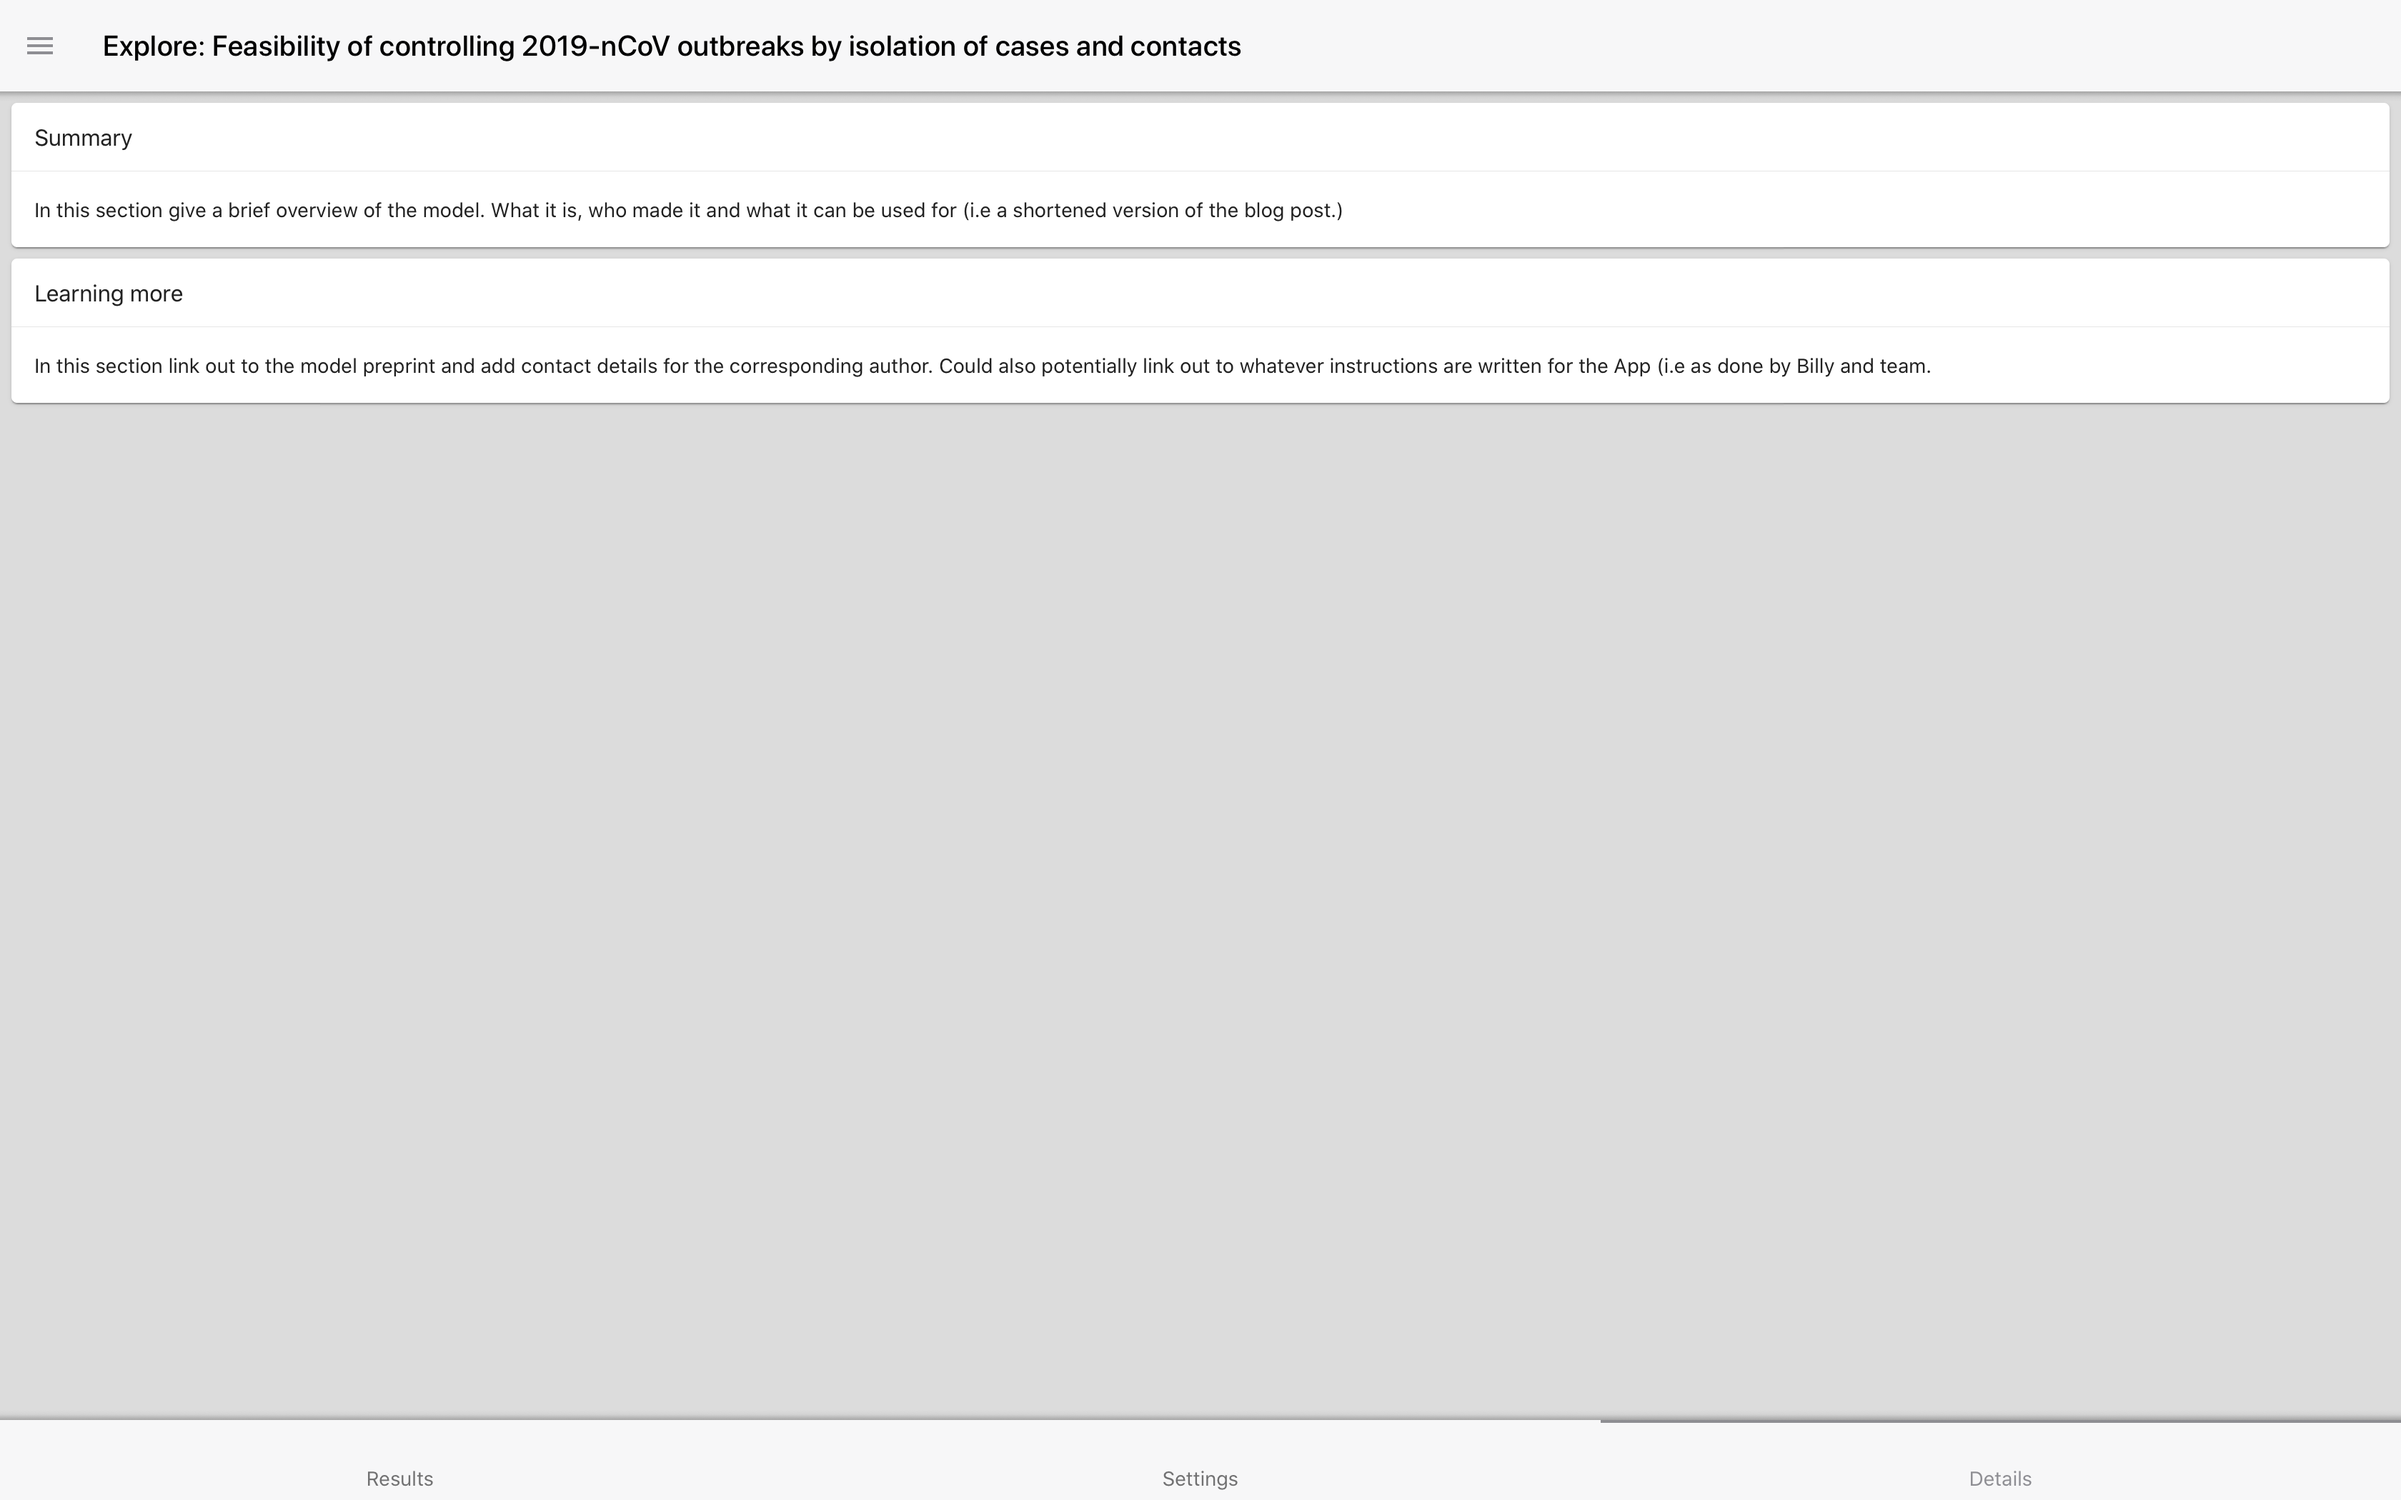
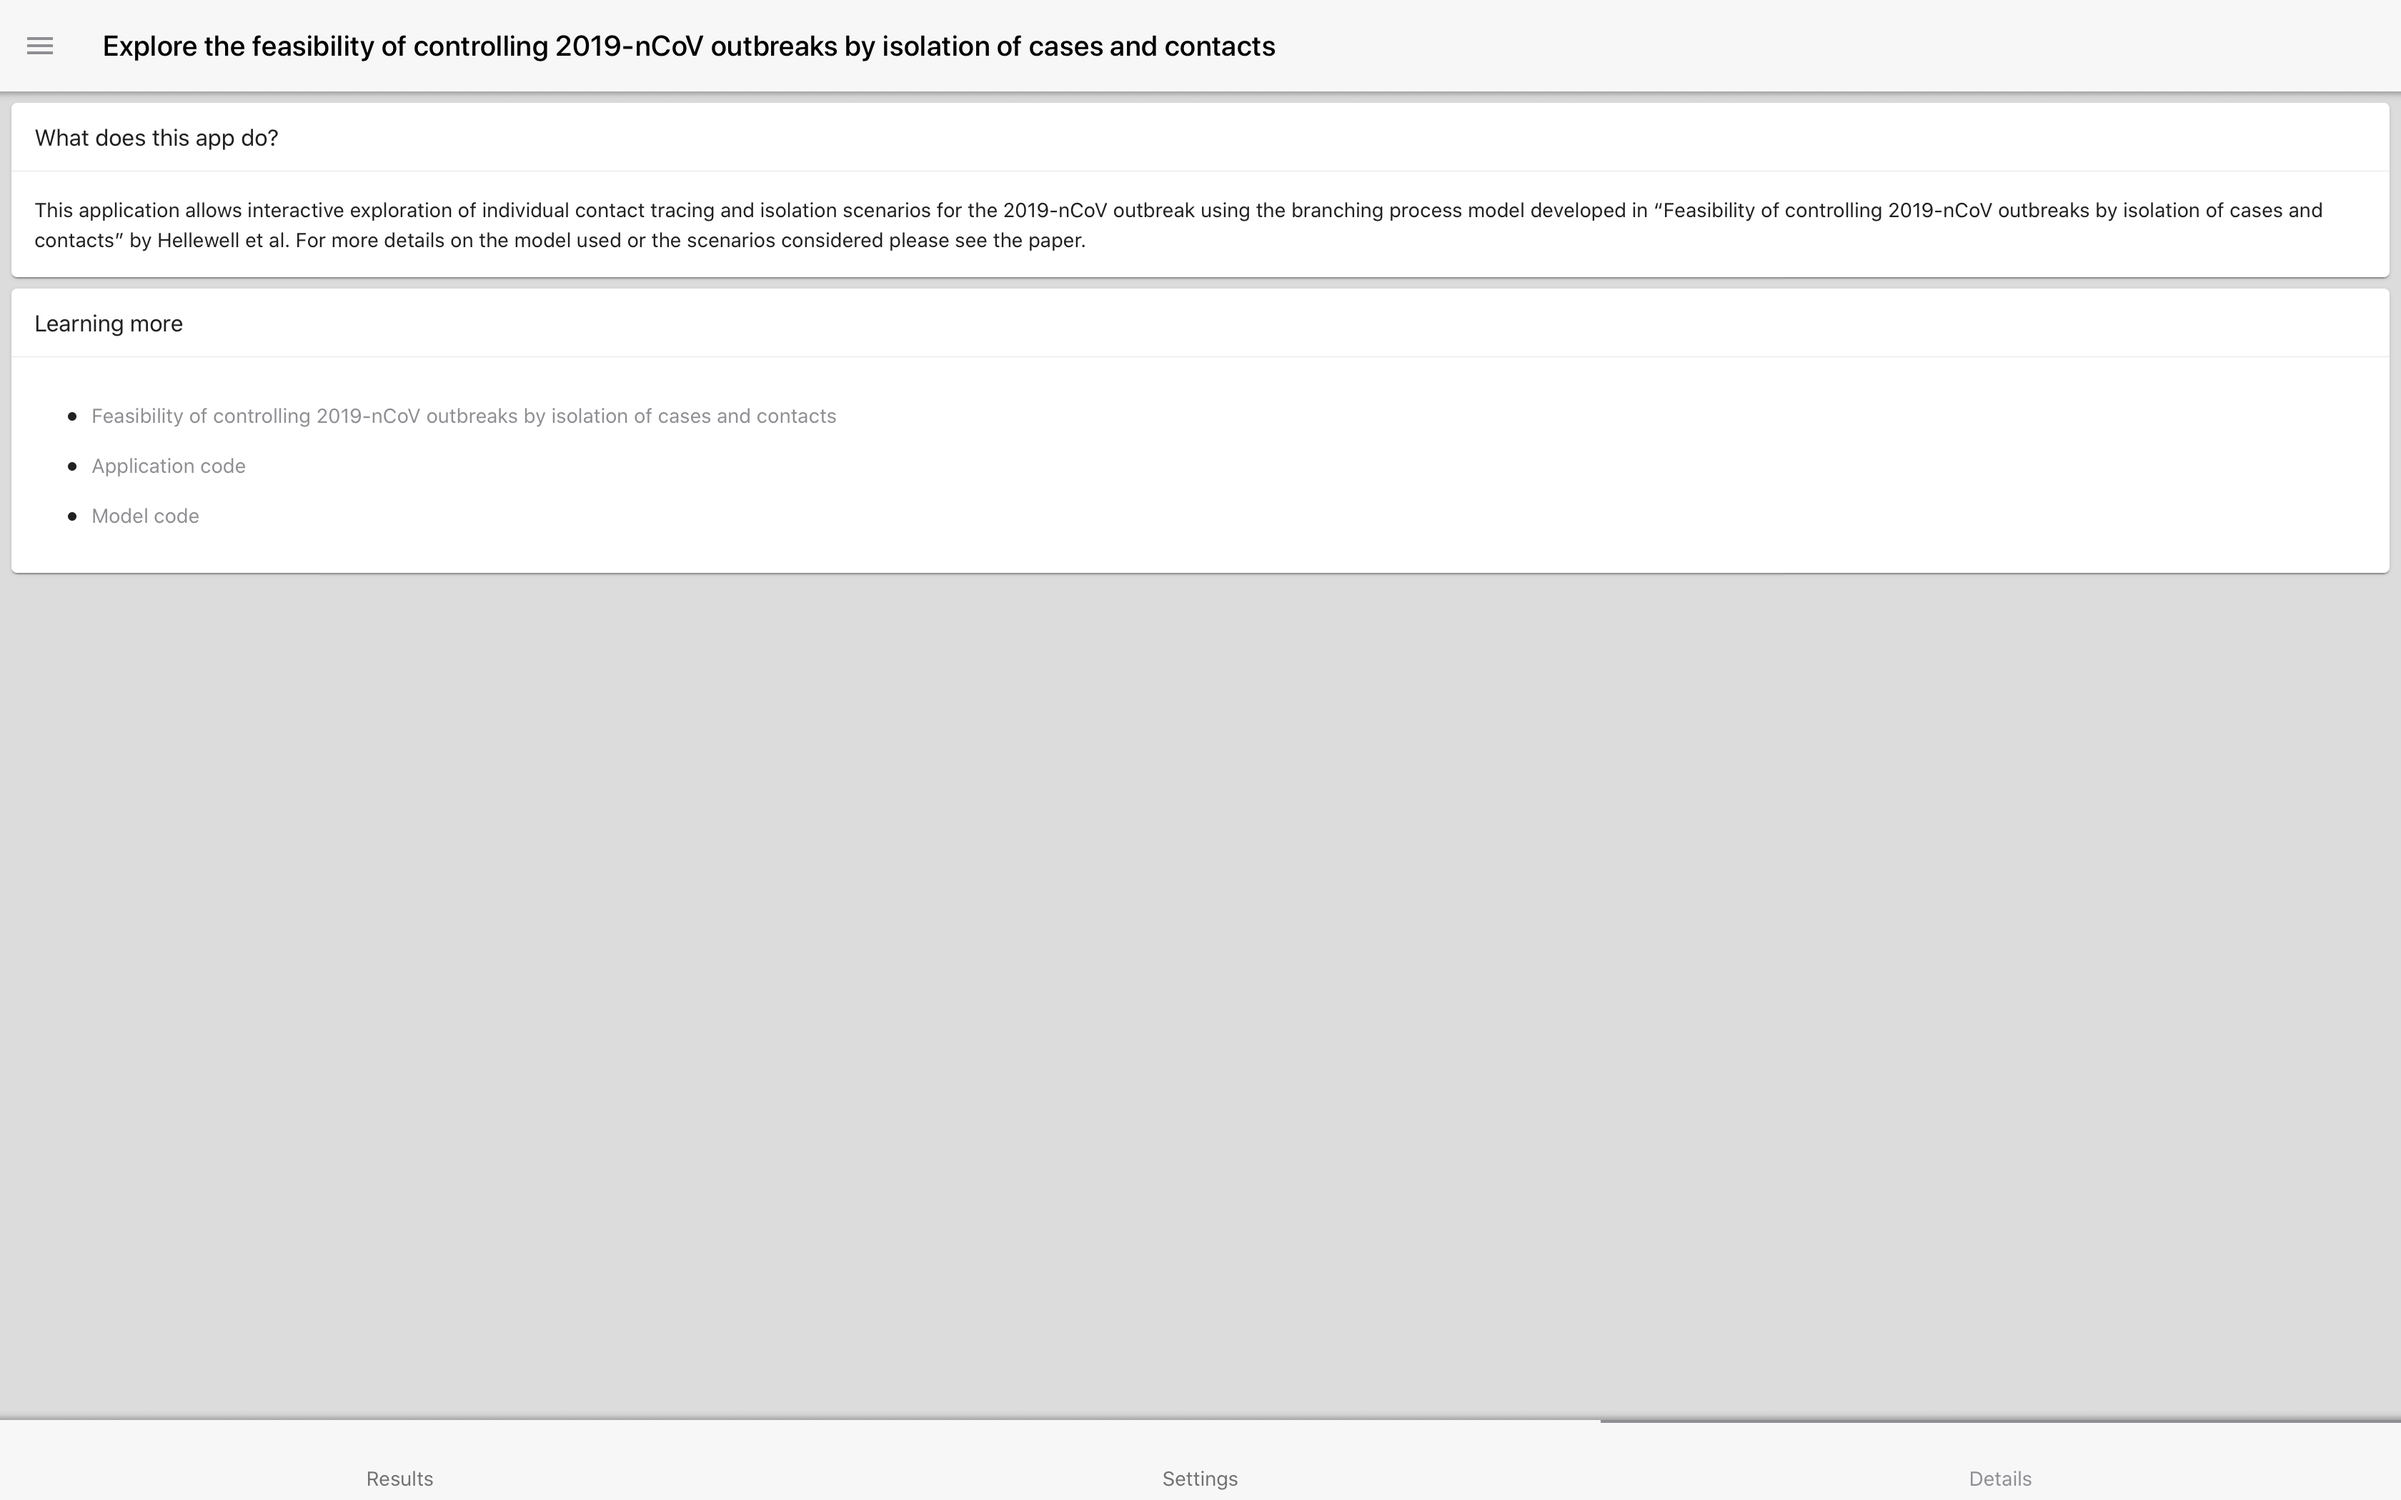
updated readme

Changed region(s): [[0.0, 0.1238, 1.0, 0.4024], [0.0938, 0.0, 0.5312, 0.0619]]

diff --git a/README.md b/README.md
@@ -1,19 +1,15 @@
 
 <!-- README.md is generated from README.Rmd. Please edit that file -->
 
-# Explore: Feasibility of controlling 2019-nCoV outbreaks by isolation of cases and contacts
+# Explore the feasibility of controlling 2019-nCoV outbreaks by isolation of cases and contacts
 
-<!-- badges: start -->
-
-[![Lifecycle:
-experimental](https://img.shields.io/badge/lifecycle-experimental-orange.svg)](https://www.tidyverse.org/lifecycle/#experimental)
-<!-- badges: end -->
-
-Explore individual scenarios using the model developed in “Feasibility
-of controlling 2019-nCoV outbreaks by isolation of cases and contacts”.
-
-This applications is mobile ready and uses asynchronous programming so
-that a large number of users can be supported.
+This application allows interactive exploration of individual contact
+tracing and isolation scenarios for the 2019-nCoV outbreak using the
+branching process model developed in [“Feasibility of
+controlling 2019-nCoV outbreaks by isolation of cases and
+contacts”](https://cmmid.github.io/ncov/isolation_contact_tracing/) by
+Hellewell et al. For more details on the model used or the scenarios
+considered please see the paper.
 
 ## Running the app
 
@@ -53,17 +49,6 @@ The details tab contains a brief overview of the model used in the app
 and links to resources for further information.
 
 <img src="man/figures/details.png" width="100%" />
-
-## Things to do
-
-  - \[ \] Determine if the app is useful and what direction to take it
-    in
-  - \[ \] Add all model parameters to settings (with grouped settings
-    for SARS-like)
-  - \[ \] Write up model summary
-  - \[ \] Write up links to other work
-  - \[ \] Finalise about section
-  - \[ \] Think if there is any other useful output
 
 ## Docker
 
